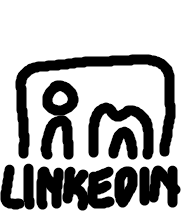
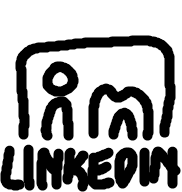
Fixed linkedin-wake image, adjusted formatting

diff --git a/index.html b/index.html
@@ -13,27 +13,27 @@
         style="
           position: absolute;
           left: 240px;
-          top: 20px;
+          top: 50px;
         "/>
     </a></li>
     <li><a href="https://leiflarsongames.itch.io/">
-      <img src='itch-sleep.png' 
+      <img src='itch-sleep.png'
         onmouseover="this.src='itch-wake.png';" 
         onmouseout ="this.src='itch-sleep.png';"
         style="
           position: absolute;
           left: 100px;
-          top: 390px;
+          top: 340px;
         "/>
     </a></li>
     <li><a href="Leif Larson Resume.pdf">
-      <img src='resume-sleep.png' 
+      <img src='resume-sleep.png'
         onmouseover="this.src='resume-wake.png';" 
         onmouseout ="this.src='resume-sleep.png';"
         style="
           position: absolute;
           left: 20px;
-          top: 50px;
+          top: 5px;
         "/>
     </a></li>
     <li><a href="mailto:larsonleifk@gmail.com">
@@ -43,17 +43,17 @@
         style="
           position: absolute;
           left: 520px;
-          top: 190px;
+          top: 150px;
         "/>
     </a></li>
     <li><a href="https://www.linkedin.com/in/leif-k-larson/">
-      <img src='linkedin-sleep.png' 
+      <img src='linkedin-sleep.png'
         onmouseover="this.src='linkedin-wake.png';" 
         onmouseout ="this.src='linkedin-sleep.png';"
         style="
           position: absolute;
           left: 360px;
-          top: 390px;
+          top: 360px;
         "/>
     </a></li>
   </body>
